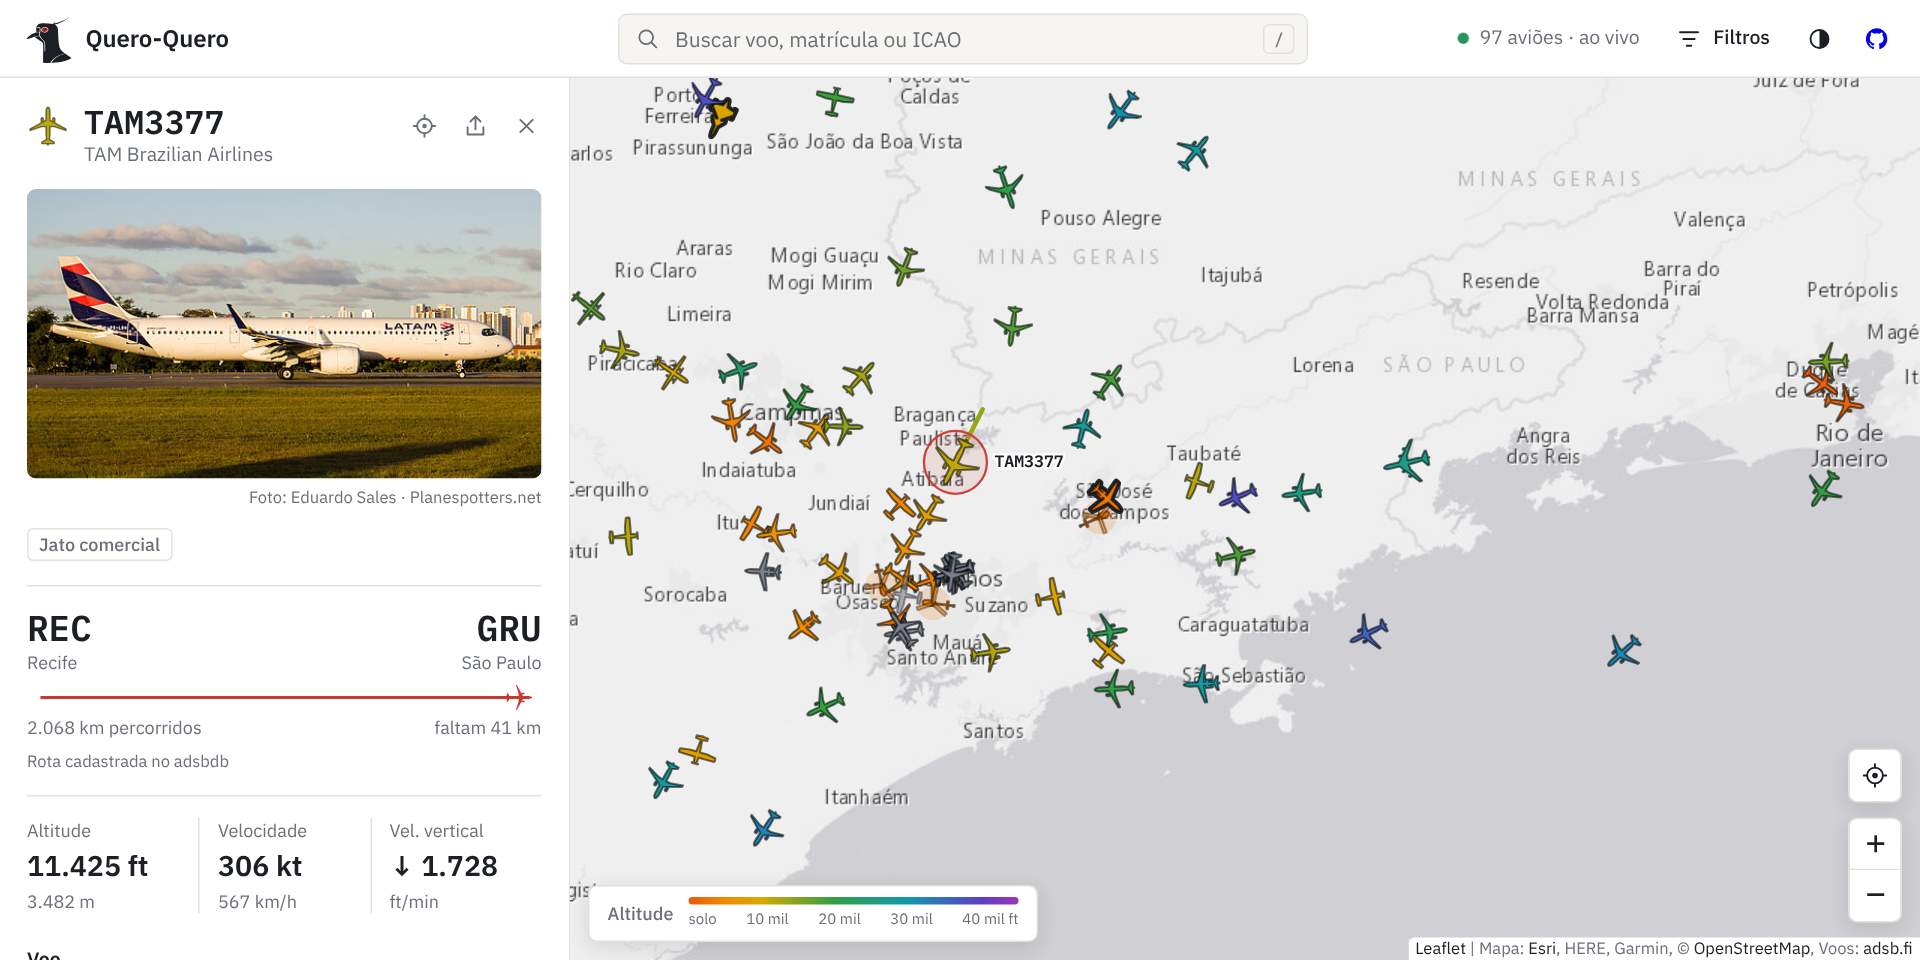
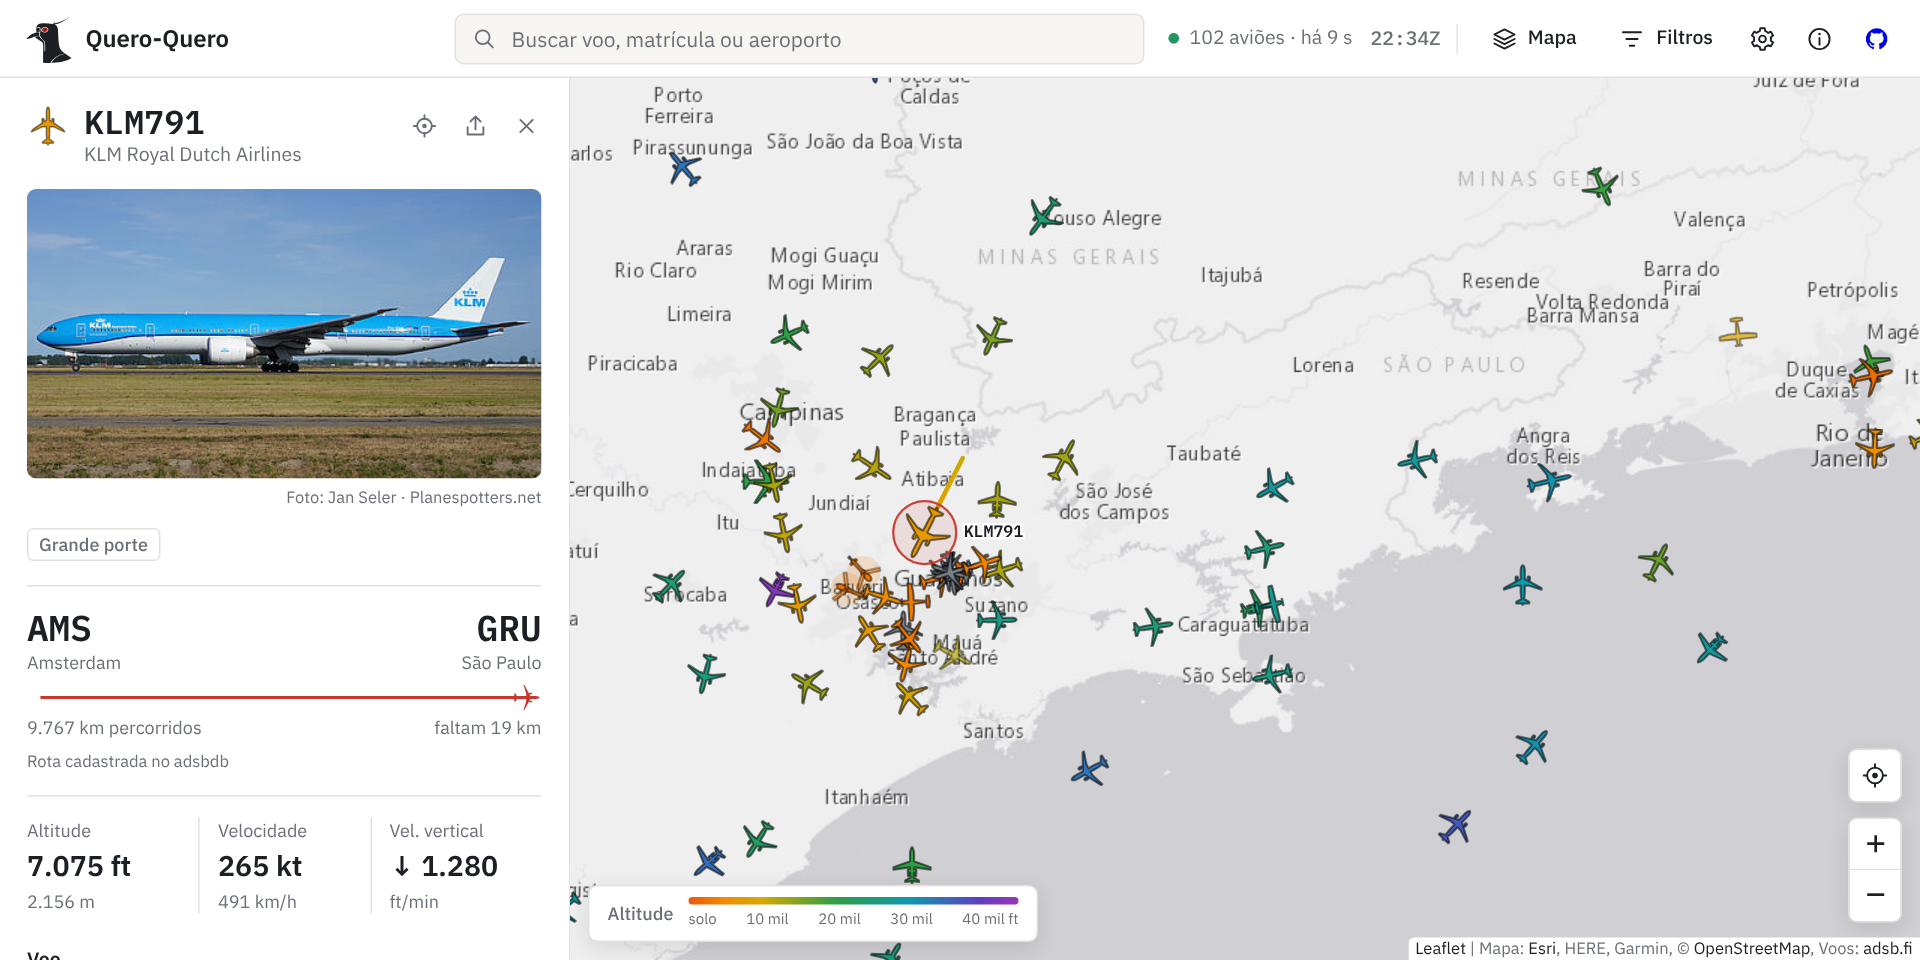
Reorganiza o README e atualiza os prints com a interface atual
Funcionalidades agrupadas por área, Como funciona mais enxuto, estrutura listando todos os módulos de js/ e um print novo do mapa de satélite com o painel do aeroporto. O social preview fica como estava.

Claude-Session: https://claude.ai/code/session_01BzwVKo4MjDyfSTkuBQzErr

diff --git a/README.md b/README.md
@@ -10,7 +10,7 @@ Rastreador de voos em tempo real feito com **HTML, CSS e JavaScript puros**: avi
 ![Leaflet](https://img.shields.io/badge/Leaflet-199900?style=for-the-badge&logo=leaflet&logoColor=white)
 ![Cloudflare Workers](https://img.shields.io/badge/Cloudflare_Workers-F38020?style=for-the-badge&logo=cloudflare&logoColor=white)
 
-<img src="assets/preview.png" alt="Mapa escuro de São Paulo com aviões coloridos pela altitude e o painel de um voo aberto, com foto da aeronave, rota, progresso, altitude e rastro" width="760">
+<img src="assets/preview.png" alt="Mapa escuro de São Paulo com aviões coloridos pela altitude e o painel de um 777 da KLM chegando de Amsterdã, com foto, rota, progresso e rastro" width="760">
 <br><br>
 
 [![Testar no navegador](https://img.shields.io/badge/▶_Testar_no_navegador-0B0F14?style=for-the-badge)](https://erickfuzer.github.io/QueroQuero/)
@@ -19,54 +19,55 @@ Rastreador de voos em tempo real feito com **HTML, CSS e JavaScript puros**: avi
 
 ## Funcionalidades
 
-- **Aviões em tempo real** girando conforme o rumo e atualizados a cada 10 s, com **movimento suave** entre uma atualização e outra
-- **Ícone por tipo de aeronave**, com silhuetas desenhadas para o projeto:
-  - jato comercial (A320, 737), grande porte bimotor (A330, 777, 787) e quadrimotor (747, A380)
-  - regional turboélice (ATR, Dash 8), jato executivo e aviação leve (Cessna, Piper)
-  - helicóptero civil e militar (Black Hawk), com o rotor girando
-  - caça com a silhueta do **F-39 Gripen** e transporte militar com a do **KC-390**, em homenagem à aviação brasileira
-  - planador, drone, balão e veículo em solo
-  - **militares** ganham um contorno de destaque
-- **Tema claro e escuro** na interface, seguindo o sistema por padrão
-- **Seletor de mapa:** escuro, claro, satélite, relevo e ruas, independente do tema da interface
+**No mapa**
+- Aviões em tempo real, atualizados a cada 10 s e com **movimento suave** entre uma atualização e outra
+- **Ícone por tipo de aeronave**, com silhuetas desenhadas para o projeto: jato comercial, grande porte, quadrimotor, regional turboélice, executivo, aviação leve, helicópteros, planador, drone e balão. O caça tem a silhueta do **F-39 Gripen** e o transporte militar a do **KC-390**, em homenagem à aviação brasileira; **militares** ganham um contorno de destaque
+- Cor pela altitude, com legenda, e o **rastro** do voo selecionado colorido trecho a trecho
+- **Cinco mapas:** escuro, claro, satélite, relevo e ruas, independentes do tema da interface
 - **Camadas:** radar de chuva das últimas 2 horas (com animação), aeroportos, sombra de dia e noite e rastro de todos os aviões
-- **Aeroportos:** clique num aeroporto (ou busque por "GRU", "Guarulhos") para ver os voos chegando e saindo na área do mapa
-- **Painel do voo:** indicativo, companhia, tipo, altitude, velocidade, velocidade vertical, rumo, squawk (com alerta de emergência), posição, matrícula, modelo, código ICAO e país de registro
-- **Rota com progresso:** origem, destino, quanto já foi percorrido e quanto falta, quando a rota está cadastrada no adsbdb e confere com a posição do avião; quando não há rota confiável, o painel diz isso em vez de inventar
-- **Foto da aeronave** no painel, do Planespotters.net, com o crédito do fotógrafo
-- **Rastro recente** desenhado no mapa, colorido pela altitude de cada trecho
-- **Seguir:** o mapa acompanha o avião selecionado
-- **Compartilhar:** gera um link que abre o mapa já com o voo selecionado
-- **Busca** por indicativo, matrícula, código ICAO ou aeroporto, com sugestões e atalho <kbd>/</kbd>
-- **Filtros** por tipo de aeronave, companhia, situação (no ar ou em solo) e altitude, com atalhos para só militares, só helicópteros e emergências
-- **Preferências:** unidades (pés ou metros, nós ou km/h) e nomes dos voos no mapa, lembradas pelo navegador
-- **Relógio UTC (Zulu)** na barra, o horário usado na aviação
-- **Sua localização** no início (com permissão) e no botão de mira; sem ela, o mapa abre sobre São Paulo
-- **Avisos amigáveis** quando o limite gratuito estoura ou a fonte de dados falha, com nova tentativa automática
-- **Economia:** busca só a área visível do mapa, só refaz a busca quando a área muda de verdade e pausa tudo quando a aba fica oculta
-- **Celular:** o painel vira uma folha inferior; arraste para cima para ver tudo, para baixo para recolher ou fechar
+
+**No painel do voo**
+- Indicativo, companhia, tipo, altitude, velocidade, velocidade vertical, rumo, squawk (com alerta de emergência), posição, matrícula, modelo, código ICAO e país de registro
+- **Foto da aeronave**, do Planespotters.net, com o crédito do fotógrafo
+- **Rota com progresso:** origem, destino, quanto já foi voado e quanto falta, só quando a rota cadastrada confere com a posição do avião; se não confere, o painel diz isso em vez de inventar
+- **Seguir**, para o mapa acompanhar o avião, e **compartilhar**, com um link que abre o mapa já no voo
+
+**Aeroportos**
+- Clique num aeroporto, ou busque por "GRU" ou "Guarulhos", para ver os voos **chegando e saindo** num raio de 200 km
+
+**Na barra**
+- **Busca** por indicativo, matrícula, código ICAO ou aeroporto, com atalho <kbd>/</kbd>
+- **Filtros** por tipo, companhia, situação (no ar ou em solo) e altitude, com atalhos para só militares, só helicópteros e emergências
+- **Preferências:** tema claro ou escuro (segue o sistema por padrão), pés ou metros, nós ou km/h e nomes dos voos no mapa, lembradas pelo navegador
+- **Relógio UTC (Zulu)**, o horário usado na aviação, e a situação da conexão ao vivo
+
+**No dia a dia**
+- Abre na sua localização (com permissão) ou sobre São Paulo
+- Busca só a área visível e pausa quando a aba fica oculta; com o mapa afastado demais, mostra até onde as fontes alcançam
+- Avisos claros quando o limite gratuito estoura ou a fonte falha, com nova tentativa automática
+- **Celular:** o painel vira uma folha inferior que se arrasta para cima para ver tudo
 
 <details>
-<summary>Ver no tema claro e no celular</summary>
+<summary>Ver no satélite, no tema claro e no celular</summary>
 <br>
-<img src="assets/preview-claro.png" alt="O mesmo mapa no tema claro, com o painel do voo aberto" width="760">
+<img src="assets/preview-satelite.png" alt="Mapa de satélite de São Paulo com radar de chuva, aeroportos e o painel de Guarulhos com os voos chegando e saindo" width="760">
+<br><br>
+<img src="assets/preview-claro.png" alt="O mesmo voo no tema claro, com o painel aberto" width="760">
 <br><br>
 <img src="assets/preview-mobile.png" alt="Versão mobile com o painel do voo como folha inferior compacta e o avião selecionado acima dela" width="260">
 </details>
 
 ## Como funciona
 
-- **Dados:** as APIs gratuitas de ADS-B (adsb.fi, airplanes.live, adsb.lol, OpenSky) não liberam CORS, então o navegador não consegue lê-las direto de uma página no GitHub Pages. Um proxy pequeno no **Cloudflare Workers** (`proxy/worker.js`, plano gratuito) faz a consulta, tenta as fontes em sequência e devolve só os campos usados, já com os cabeçalhos de CORS.
-- **Área visível:** as APIs consultam por raio, então o app calcula o círculo que cobre o mapa na tela (até 250 milhas náuticas, cerca de 460 km). Com o mapa mais afastado que isso, aparece o contorno da área coberta e um aviso com atalho para aproximar. Ao arrastar ou dar zoom, só busca de novo se o centro andou mais de um quarto do raio ou o zoom mudou o raio, e no máximo uma vez a cada 3 s.
-- **Desenho:** os aviões são desenhados num `<canvas>` por cima do Leaflet, o que mantém a animação leve mesmo com centenas de aeronaves. Cada silhueta é um traçado SVG gerado a partir das medidas reais do modelo (comprimento, envergadura, fuselagem e motores) e unido num contorno único; o mesmo traçado é usado no canvas (`Path2D`) e nos ícones da interface. Os nomes dos voos que cairiam um em cima do outro são pulados.
-- **Tipo de aeronave:** vem da categoria que o próprio transponder informa (A1 leve, A3 comercial, A5 grande porte, A7 helicóptero, B6 drone…). O modelo (designador ICAO, como `B744`, `AT76` ou `C130`) refina a escolha: quadrimotores, turboélices regionais, transportes militares e helicópteros militares. Quando a categoria não vem, o app tenta pelo modelo e pelo fabricante. A marcação de militar vem da base de aeronaves das redes de receptores.
-- **Interpolação:** cada quadro estima a posição por `velocidade × tempo` no rumo atual, sem arredondar para o pixel. Quando chega um dado novo, a diferença entre o que estava na tela e a posição real some ao longo de 1,5 s.
+- **Dados:** as APIs gratuitas de ADS-B (adsb.fi, airplanes.live, adsb.lol, OpenSky) não liberam CORS, então o navegador não consegue lê-las direto de uma página no GitHub Pages. Um proxy pequeno no **Cloudflare Workers** (`proxy/worker.js`, plano gratuito) faz a consulta, tenta as fontes em sequência e devolve só os campos usados.
+- **Área visível:** as APIs consultam por raio, então o app calcula o círculo que cobre o mapa (até 250 milhas náuticas, cerca de 460 km) e só refaz a busca quando a área muda de verdade, no máximo uma vez a cada 3 s.
+- **Desenho:** os aviões são desenhados num `<canvas>` por cima do Leaflet, o que mantém a animação leve mesmo com centenas de aeronaves. Cada silhueta é um traçado SVG feito a partir das medidas reais do modelo, usado tanto no canvas (`Path2D`) quanto nos ícones da interface.
+- **Interpolação:** cada quadro estima a posição por `velocidade × tempo` no rumo atual. Quando chega um dado novo, a diferença entre o que estava na tela e a posição real some ao longo de 1,5 s, então o avião desliza em vez de pular.
+- **Tipo de aeronave:** vem da categoria informada pelo transponder (A1 leve, A3 comercial, A7 helicóptero…), refinada pelo modelo (`B744`, `AT76`, `C130`…). A marcação de militar vem da base das redes de receptores.
+- **Rota:** vem do adsbdb pelo indicativo e fica guardada no navegador por um dia. Como a base é colaborativa e às vezes está velha, a rota só aparece se o avião estiver num caminho plausível entre origem e destino.
 - **Rastro:** as APIs gratuitas não entregam o histórico do voo, então o app guarda as posições recebidas desde que a página foi aberta (até cerca de 1 hora por avião).
 - **País de registro:** sai do endereço ICAO de 24 bits do transponder, pelas faixas que a ICAO reserva para cada país (o Brasil vai de `E40000` a `E7FFFF`).
-- **Radar de chuva:** quadros de 10 em 10 minutos do RainViewer, sobrepostos ao mapa e atualizados sozinhos.
-- **Dia e noite:** a linha que separa o dia da noite é calculada no navegador a partir da posição do Sol, sem API.
-- **Aeroportos:** uma base enxuta dos ~3.300 aeroportos médios e grandes com voo regular do OurAirports (`assets/dados/aeroportos.json`), carregada só quando usada. Chegadas e partidas são os voos a até 200 km cuja rota cadastrada liga ao aeroporto e confere com a posição.
-- **Rota:** vem do adsbdb pelo indicativo e fica guardada no navegador por um dia, para não repetir consultas. Como a base é colaborativa e às vezes está velha, o app só mostra a rota se o avião estiver num caminho plausível entre origem e destino. O progresso é a distância já voada sobre a soma da voada com a que falta.
+- **Camadas:** o radar de chuva vem do RainViewer, de 10 em 10 minutos; a linha entre dia e noite é calculada no navegador pela posição do Sol; os aeroportos são uma base enxuta dos ~3.300 médios e grandes com voo regular do OurAirports, carregada só quando usada.
 
 ## Como usar
 
@@ -106,7 +107,7 @@ Sempre que o `proxy/worker.js` mudar no repositório, cole a versão nova no Wor
 
 ```
 QueroQuero/
-├── index.html               # estrutura da página, navbar, painéis e popovers
+├── index.html               # estrutura da página: navbar, painéis, popovers e janela Sobre
 ├── style.css                # temas claro e escuro, painéis, folha inferior e versão mobile
 ├── js/                      # código em módulos ES, sem etapa de build
 │   ├── main.js              # ponto de entrada: monta a interface e começa a buscar os voos
@@ -115,14 +116,20 @@ QueroQuero/
 │   ├── estado.js            # aviões recebidos, interpolação e posição exibida
 │   ├── desenho.js           # canvas: aviões, rastros, aeroportos, clique e dica do mouse
 │   ├── aeronaves.js         # silhuetas, grupos e classificação por tipo
+│   ├── cores.js             # cores por altitude conforme o tema e o mapa
+│   ├── mapa.js              # mapa Leaflet e estilos de mapa base
 │   ├── painel.js            # painel do voo: dados, foto, rota, seguir e compartilhar
 │   ├── painel-aeroporto.js  # painel do aeroporto: chegadas e partidas
 │   ├── rotas.js             # rotas do adsbdb, com cache no navegador
+│   ├── aeroportos.js        # base de aeroportos do OurAirports
 │   ├── busca.js             # busca de voos e aeroportos
 │   ├── filtros.js           # filtros por tipo, situação, companhia e altitude
 │   ├── interface.js         # popovers, preferências, tema, camadas, relógio e atalhos
-│   ├── mapa.js              # mapa Leaflet e estilos de mapa base
-│   └── …                    # utilitários, cores, preferências, países, companhias e avisos
+│   ├── prefs.js             # preferências salvas e unidades
+│   ├── companhias.js        # nomes das companhias pelo prefixo do indicativo
+│   ├── paises.js            # país de registro pelo código ICAO
+│   ├── avisos.js            # avisos no topo da tela
+│   └── util.js              # utilitários de DOM, números e distância
 ├── proxy/
 │   └── worker.js            # proxy para o Cloudflare Workers (CORS e fontes)
 ├── assets/
@@ -144,7 +151,7 @@ QueroQuero/
 - Mapa interativo: [Leaflet](https://leafletjs.com)
 - Mapas base: Esri Dark Gray, Light Gray, World Imagery, World Topo e World Street ([Esri](https://www.esri.com), HERE, Garmin, © [colaboradores do OpenStreetMap](https://www.openstreetmap.org/copyright) e comunidade de usuários de SIG)
 
-Desenvolvido com o auxílio do [Claude](https://claude.ai) (Anthropic) na escolha das fontes de dados, no proxy, na interpolação dos aviões, nos ícones por tipo e no redesenho da interface.
+Desenvolvido com o auxílio do [Claude](https://claude.ai) (Anthropic) na escolha das fontes de dados, no proxy, na interpolação dos aviões, nos ícones por tipo, no redesenho da interface e na organização do código em módulos.
 
 ## Licença
 
